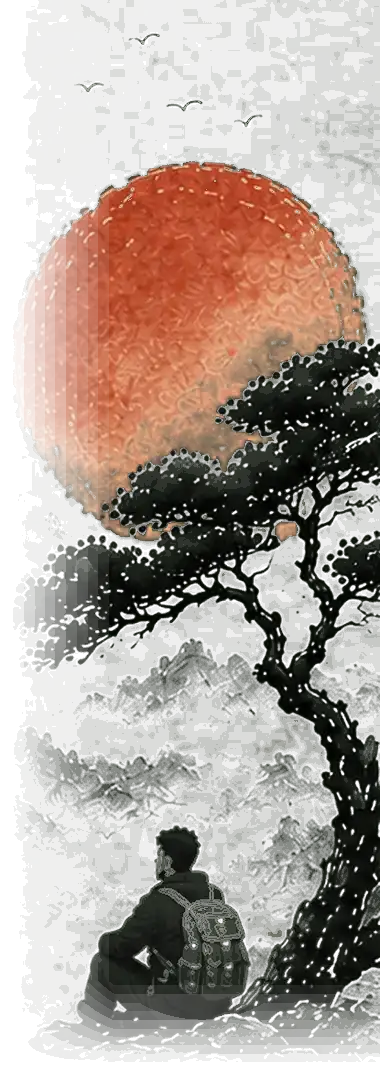
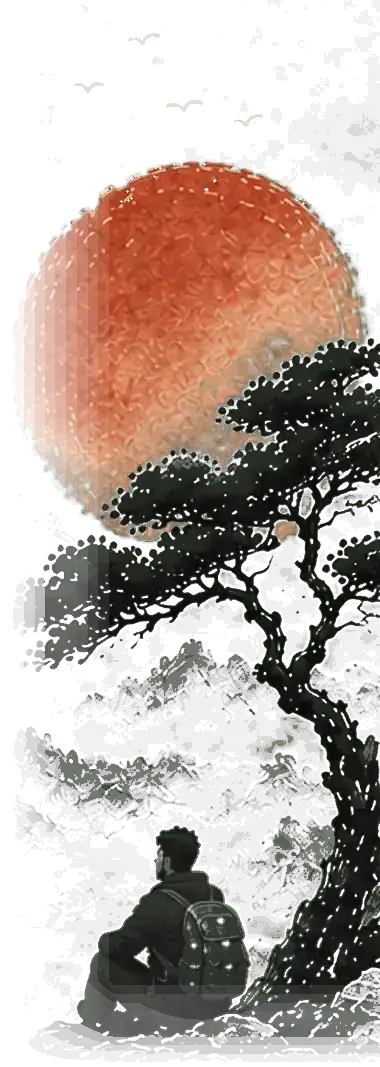
Back to the authentic cut, with the birds properly white
Said plainly, and it is the right call: of everything tried, only the
version before the last rebuild "looks authentic and natural" -- the rest
"looks changed". That is exactly what those did: pushing the mist and the
foliage down toward the sheet made the page even and made the picture
look processed, which is a bad trade on a card whose whole subject is a
painting.

So the artwork is the committed cut from before that pass, restored from
git rather than re-derived, with the two things that were genuinely
missing put back on top of it: the moonlight pool on the man, and the
birds.

The birds are white now, not bone. They measure 219 against a page at 28,
where they were 33 -- and they are dilated by one pixel first, because a
four-pixel bird at three hundred pixels of panel width is a mark that
either reads or does not, and 152 did not. Nothing else in the picture is
touched by that: the birds are found by labelling the ink and keeping
only components under 180px in the top fifth.

diff --git a/how-this-was-made/index.html b/how-this-was-made/index.html
@@ -1599,7 +1599,7 @@ a:active,button:active{opacity:.72}
 <div class="cf-num"><b>72</b><span>checks before a push</span></div>
 <div class="cf-num"><b>15</b><span>github workflows</span></div>
 <div class="cf-num"><b>66,551</b><span>lines behind it</span></div>
-<div class="cf-num"><b>2,123</b><span>commits</span></div>
+<div class="cf-num"><b>2,124</b><span>commits</span></div>
 </div>
 <h2 id="journey">What happens when I publish</h2>
 <p class="cf-note">A post is a file. Everything a reader sees is built from it, which means the pages can always be thrown away and made again &mdash; and are, on every publish. Here is the whole trip a post takes, from the file to your screen.</p>
